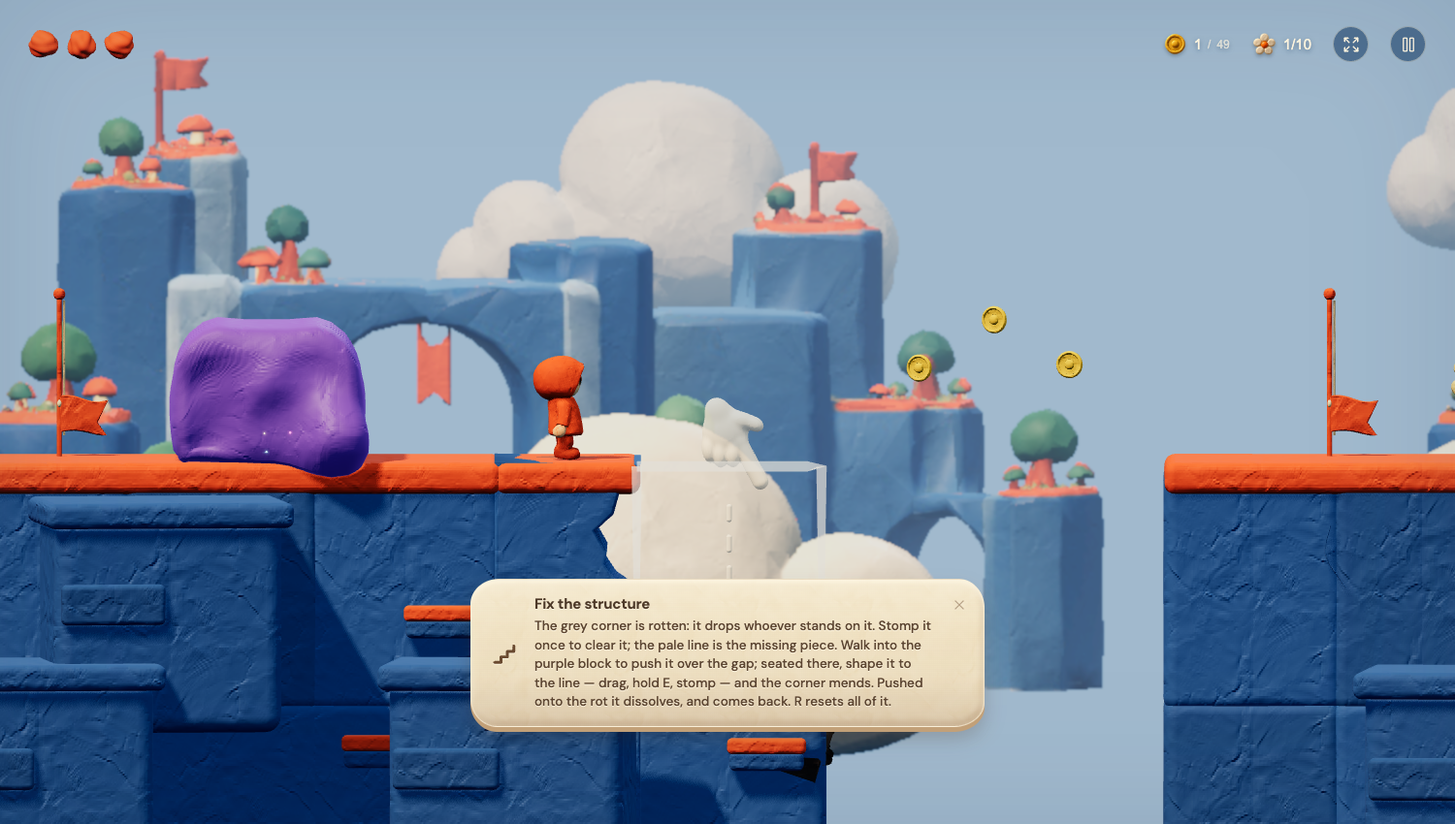
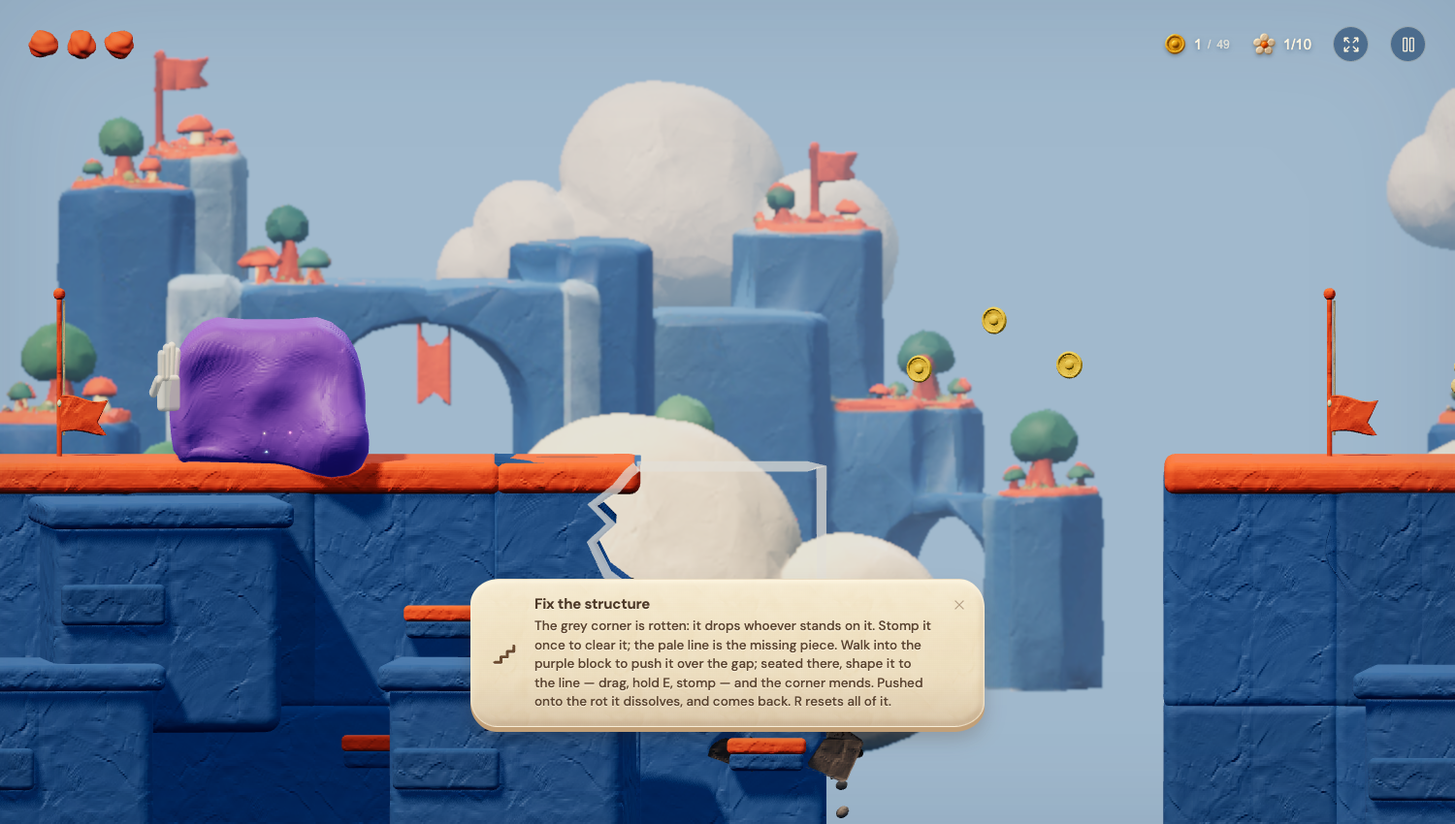
Make the rot one pitted slab, outline the whole bite, and show a hand that pushes
The rotten corner reads as the reference does: one slab of dead clay,
pitted like pumice with craters large and small (porousClay takes a count,
a size and a share of craters for its top face, and a polygon-aware margin
so a toothed outline keeps its pores everywhere), grains of it clinging
along its top and open side, a lighter warm grey against the blue, and a
bite with straight teeth rather than a wavy edge. It is whole until it
goes; the fragments it falls as are built beside it and shown only for the
fall.

The white outline traces the whole bite — down the open side, along the
floor and up the bitten wall, teeth and all — so the line is the piece that
is missing, not a box over the hole.

The teaching hand follows the plug's phases. Nothing while the rot stands;
once the gap is open, an open hand — palm, four fingers and a thumb, turned
to the camera — flat against the block's near face, shoving at it and going
with it as it moves, and gone while the player is shoving it themselves;
the pointing hand with its run and arrow only once the plug is seated and
is clay to work; nothing while it settles or once the corner is mended. A
cue that loses its anchor fades where it was.

diff --git a/dist/crumble.js b/dist/crumble.js
@@ -99,51 +99,58 @@ export function createCrumble(w,s,root){
 
 // --- a rotten corner --------------------------------------------------------------
 // A bench corner rotted through: the bite `rot-shape.js` describes, filled with
-// rot — dark clay gone to pieces already, fractured across its face so the
-// seams are its cracks, pitted, flecked, and standing on a darker backing so
-// the cracks read black rather than sky. It falls the way a crumbling ledge
-// does: every fragment is a piece for animateCrumble, holder and all.
-const ROT_CLAY=0x4b423e,ROT_DARK=0x2d2826,ROT_DEPTH=3;
+// rot — one slab of dead clay, pitted like pumice with craters large and small,
+// grains of it clinging along its top and its open side, warm grey-brown where
+// the bench is blue. It is whole until it goes; then it falls as fragments,
+// which are built with it and shown only for the fall. Every piece is a piece
+// for animateCrumble, holder and all.
+const ROT_CLAY=0x776a61,ROT_DEPTH=3;
 export function rotMaterials(w){
-  for(const [name,color,vertexColors]of [['rotClay',ROT_CLAY,true],['rotDark',0x3a322f,true],['rotBack',ROT_DARK,false],['rotChip',0x3b3330,false]]){
+  for(const [name,color,vertexColors]of [['rotClay',ROT_CLAY,true],['rotShard',0x655953,true],['rotGrain',0x7d7067,false],['rotChip',0x6b5f57,false]]){
     const material=w.mat[name]??=new THREE.MeshStandardMaterial();
     material.color.setHex(color);material.roughness=.97;material.metalness=0;material.vertexColors=vertexColors;
   }
 }
+// porousClay builds a slab lying flat with its pitted face up; laid on its
+// side, (x, z) becomes (x, y) and the pits face the front. The holder keeps
+// that turn, since animateCrumble writes the piece's own rotation each frame.
+function rotSlab(w,geo,mat,root,cx,cy){
+  const holder=new THREE.Group();holder.position.set(cx,cy,0);root.add(holder);
+  const mesh=w.mesh(geo,mat,holder,0,0,ROT_DEPTH/2);mesh.rotation.x=Math.PI/2;
+  return {holder,mesh};
+}
 export function createRot(w,s,root){
   root.name='Rotten corner';rotMaterials(w);
   const seed=biteSeed(s),outline=biteOutline(s.w,s.h,seed),{left,right,top,bottom}=biteBounds(outline),pieces=[];
-  // Voronoi cells over the bite's box, in the plane of the bench's face, kept
-  // where their middle lies inside the bite. A cell that straddles the ragged
-  // wall runs on into the bench, where the bench hides it.
+  // The slab: the whole bite, pitted deep.
+  const cx=(left+right)/2,cy=(top+bottom)/2;
+  const whole=clayShape(w,`rot-slab:${seed}:${s.w}:${s.h}`,()=>porousClay(w,outline.map(([x,y])=>[x-cx,-(y-cy)]),ROT_DEPTH,seed,false,{count:54,scale:2.7,bold:.5,concave:true}));
+  const slab=rotSlab(w,whole,'rotClay',root,cx,cy);slab.mesh.name='Rotten clay';
+  pieces.push({mesh:slab.holder,rest:slab.holder.position.clone(),seed:0,layer:0,whole:true});
+  // Grains of rot cling along the top and the open side, and fall with it.
+  for(let i=0;i<18;i++){
+    const onTop=i<11,r=.07+random(seed+i*13)*.09;
+    const x=onTop?left+.25+random(seed+i*7)*(right-left-.45):right-r*.3,y=onTop?top-r*.25:bottom+.3+random(seed+i*11)*(top-bottom-.6);
+    const z=(random(seed+i*17)-.5)*(ROT_DEPTH-.6);
+    const grain=w.mesh(fragmentGeometry(w),'rotGrain',root,x,y,z);grain.scale.set(r*1.2,r*.9,r*1.05);grain.castShadow=false;
+    pieces.push({mesh:grain,rest:grain.position.clone(),seed:60+i,grain:true});
+  }
+  // The fragments it falls as: Voronoi cells over the bite's box, in the plane
+  // of the bench's face, kept where their middle lies inside the bite.
   const cols=Math.max(3,Math.round((right-left)/1.05)),rows=Math.max(2,Math.round((top-bottom)/.9)),sites=[];
   for(let r=0;r<rows;r++){const n=cols-(r%2);for(let c=0;c<n;c++)sites.push([left+(c+.5+(random(seed+c*3+r*11)-.5)*.6)*(right-left)/n,bottom+(r+.5+(random(seed+c*5+r*17)-.5)*.5)*(top-bottom)/rows]);}
   for(const [i,a]of sites.entries()){
     let poly=[[left,bottom],[right,bottom],[right,top],[left,top]];
     for(const b of sites)if(b!==a)poly=clip(poly,b[0]-a[0],b[1]-a[1],(b[0]**2+b[1]**2-a[0]**2-a[1]**2)/2);
     if(poly.length<3)continue;
-    const cx=poly.reduce((q,p)=>q+p[0],0)/poly.length,cy=poly.reduce((q,p)=>q+p[1],0)/poly.length;
-    if(!insideBite(outline,cx,cy))continue;
-    // Drawn in about its middle: the seams between fragments are the cracks.
-    // porousClay builds a slab lying flat with its pitted face up; laid on its
-    // side (x, z) becomes (x, y), and the pits face the front.
-    const local=poly.map(([x,y])=>{const len=Math.hypot(x-cx,y-cy)||1,f=1-Math.min(.075,len*.15)/len;return [(x-cx)*f,-(y-cy)*f];});
-    const geo=clayShape(w,`rot:${seed}:${i}`,()=>porousClay(w,local,ROT_DEPTH,seed+i*137,random(seed+i)>.55));
-    const holder=new THREE.Group();holder.position.set(cx,cy,0);root.add(holder);
-    const mesh=w.mesh(geo,random(seed+i*7)>.4?'rotClay':'rotDark',holder,0,0,ROT_DEPTH/2);mesh.rotation.x=Math.PI/2;
-    mesh.name='Rotten clay';
-    // A fleck or two of black on the face.
-    for(let k=0;k<2;k++)if(random(seed+i*13+k)>.45){
-      const fx=(random(seed+i*17+k)-.5)*.5,fy=(random(seed+i*19+k)-.5)*.5,r=.05+random(seed+i*23+k)*.06;
-      const fleck=w.ball(r,r*.85,r*.4,'rotBack',holder,fx,fy,ROT_DEPTH/2+.01);fleck.castShadow=false;
-    }
-    pieces.push({mesh:holder,rest:holder.position.clone(),seed:i,layer:0});
+    const px=poly.reduce((q,p)=>q+p[0],0)/poly.length,py=poly.reduce((q,p)=>q+p[1],0)/poly.length;
+    if(!insideBite(outline,px,py))continue;
+    const local=poly.map(([x,y])=>{const len=Math.hypot(x-px,y-py)||1,f=1-Math.min(.06,len*.12)/len;return [(x-px)*f,-(y-py)*f];});
+    const geo=clayShape(w,`rot-shard:${seed}:${i}`,()=>porousClay(w,local,ROT_DEPTH-.2,seed+i*137,random(seed+i)>.5));
+    const shard=rotSlab(w,geo,random(seed+i*7)>.5?'rotClay':'rotShard',root,px,py);shard.mesh.name='Rotten clay, fallen';
+    shard.holder.visible=false;
+    pieces.push({mesh:shard.holder,rest:shard.holder.position.clone(),seed:i+1,layer:0,shard:true});
   }
-  // The backing: the whole bite, a hand behind the fragments.
-  const shape=new THREE.Shape(outline.map(([x,y])=>new THREE.Vector2(x,y)));
-  const back=w.mesh(new THREE.ExtrudeGeometry(shape,{depth:.3,bevelEnabled:false}),'rotBack',root,0,0,-ROT_DEPTH/2-.3);
-  back.name='Rot backing';back.castShadow=false;
-  pieces.push({mesh:back,rest:back.position.clone(),seed:97,layer:1});
   return {pieces,crumbClock:0};
 }
 // The bench column the bite is eaten from, drawn as one piece with the bite's
@@ -196,6 +203,8 @@ export function animateCrumble(w,view,s,dt){
   fracture.settled=settled;
   for(const part of fracture.pieces){
     const {mesh,rest,seed}=part;mesh.position.copy(rest);mesh.rotation.set(0,0,0);
+    // A rotten slab is whole until it goes, and its shards only ever fall.
+    if(part.whole)mesh.visible=!!s.active;else if(part.shard)mesh.visible=!s.active;
     if(!s.active){
       const fall=Math.max(0,age-random(seed)*.11),dx=rest.x-s.w/2;
       mesh.position.x+=dx*fall*.42;mesh.position.y-=fall*fall*(part.grain?13:8.5);

diff --git a/dist/shape-hand.js b/dist/shape-hand.js
@@ -1,4 +1,5 @@
 import * as THREE from './lib/three.module.js';
+import {RoundedBoxGeometry} from './lib/RoundedBoxGeometry.js';
 import {createHandGeometry,createArrowGeometry} from './shape-hand-geometry.js';
 import {shapedShare} from './clay-rules.js';
 import {formPeak} from './clay-form.js';
@@ -32,6 +33,34 @@ function buildHand(geometry,material,parent,flip=1){
   const mesh=new THREE.Mesh(geometry,material);mesh.name='Sculpted pointing hand';hand.add(mesh);
   return hand;
 }
+// An open hand, palm flat against the thing it pushes: a slab of a palm on its
+// edge, four fingers up off it and a thumb off the near side, turned a little
+// towards the camera so the back of the hand and the spread of the fingers
+// read rather than a hand seen edge-on. Its palm face is at x 0; it pushes
+// towards +x.
+function buildPalm(material,parent){
+  const hand=new THREE.Group();hand.name='Open clay hand, pushing';hand.scale.setScalar(1.55);parent.add(hand);
+  const turn=new THREE.Group();turn.rotation.y=-.8;hand.add(turn);
+  const palm=new THREE.Mesh(new RoundedBoxGeometry(.2,.6,.52,3,.08),material);palm.name='Palm';palm.position.set(-.1,0,0);turn.add(palm);
+  for(const [i,len]of [.4,.5,.47,.37].entries()){
+    const finger=new THREE.Mesh(new THREE.CapsuleGeometry(.08,len,4,10),material);finger.name='Finger';
+    finger.position.set(-.1,.3+len/2-.02,-.2+i*.13);finger.rotation.x=(i-1.5)*.05;finger.rotation.z=-.06;turn.add(finger);
+  }
+  const thumb=new THREE.Mesh(new THREE.CapsuleGeometry(.085,.32,4,10),material);thumb.name='Thumb';
+  thumb.position.set(-.14,.12,.31);thumb.rotation.z=-.75;thumb.rotation.x=.35;turn.add(thumb);
+  return hand;
+}
+// The plug's cue follows its phases: nothing while the rot stands (the sign
+// says stomp), a hand pushing the block once the gap is open, the press once
+// the plug is seated, and nothing while it settles or once it is mended.
+const fixMode=station=>{const phase=station.fix?.phase;return phase==='open'?'push':phase==='shaping'?'press':null;};
+// Where the pushing hand stands: flat on the block's near face, a little below
+// the block's middle, following the block as it goes.
+function pushAnchor(station){
+  const block=station.fix?.blockPlatform;
+  if(!block||block.active===false||block.pushPhase!=='free')return null;
+  return {x:block.x-.04,y:block.y-block.h*.45};
+}
 
 export function createShapeHands(w,L){
   const views=[];
@@ -57,7 +86,9 @@ export function createShapeHands(w,L){
       const head=new THREE.Mesh(geometries[2],materials[0]);carrier.add(head);
       head.userData={dir,step:3.32,arrow:true};marks.push(head);
     }
-    views.push({root,carrier,hands,marks,materials,geometries,station,gesture,opacity:0,time:0,dwell:0,seen:0});
+    const view={root,carrier,hands,marks,materials,geometries,station,gesture,opacity:0,time:0,dwell:0,seen:0};
+    if(station.fix){view.palm=buildPalm(materials[0],carrier);view.palm.visible=false;}
+    views.push(view);
   }
   return views;
 }
@@ -99,7 +130,8 @@ export function animateShapeHands(w,game,dt,playing){
   const done=w.clayDone;
   for(const view of w.shapeHands||[]){
     const {station,gesture,root}=view;
-    const spot=anchor(view,L,p);
+    const mode=station.fix?fixMode(station):'press';
+    const spot=mode==='push'?pushAnchor(station):mode?anchor(view,L,p):null;
     const inStretch=!!spot&&p.x>=station.x&&p.x<=station.end&&Math.abs(p.y-station.spawn.y)<10;
     const unworked=station.amount<.995;
     // Dwell resets whenever the clay moves, so the cue never nags a player who
@@ -110,13 +142,22 @@ export function animateShapeHands(w,game,dt,playing){
     else view.dwell+=playing?dt:0;
     view.lastAmount=worked;
     const teaching=!done?.has(station.id)||view.dwell>DWELL;
-    const wanted=inStretch&&unworked&&teaching&&!w.editorCamera&&game.status!=='complete';
+    // A player already shoving the block needs no hand to show them.
+    const wanted=inStretch&&unworked&&teaching&&!w.editorCamera&&game.status!=='complete'&&!(mode==='push'&&p.pushing);
     view.opacity+=((wanted?1:0)-view.opacity)*(1-Math.exp(-dt*7));
     // The cue recedes as the clay takes shape: the player sees their own work.
     const alpha=view.opacity*(.25+.75*(1-worked));
     root.visible=alpha>.02;
     if(!root.visible)continue;
-    root.position.set(spot.x,spot.y,1.8);
+    // A cue that has just lost its anchor fades where it was.
+    if(spot)root.position.set(spot.x,spot.y,1.8);
+    if(view.palm){
+      // One cue or the other: the open hand at the block, or the pointing
+      // hand with its run and arrow over the clay.
+      view.palm.visible=mode==='push';
+      for(const hand of view.hands)hand.visible=mode!=='push';
+      for(const mark of view.marks)mark.visible=mode!=='push';
+    }
 
     view.time+=playing?dt:0;
     // Reduced motion holds a legible mid-gesture pose instead of looping.
@@ -130,6 +171,14 @@ export function animateShapeHands(w,game,dt,playing){
     const bob=w.reducedMotion?0:Math.sin(view.time*2.3)*.07*(1-swing);
     view.carrier.position.set(0,bob,0);
     view.carrier.scale.setScalar(w.landscape===false?.9:1);
+    if(mode==='push'){
+      // The hand comes at the block and leans on it: a short shove, a little
+      // squash as the palm meets the face, and back for the next.
+      view.palm.position.set(-.55+.55*swing,0,0);
+      view.palm.scale.set(1-swing*.12,1+swing*.04,1);
+      for(const m of view.materials)m.opacity=alpha*(.5+.5*fade);
+      continue;
+    }
     for(const hand of view.hands){
       const dir=hand.userData.dir;
       hand.position.set((gesture.move[0]*swing+(gesture.mirror?.48:0))*dir,gesture.move[1]*swing,0);

diff --git a/dist/porous-clay.js b/dist/porous-clay.js
@@ -2,10 +2,28 @@ import * as THREE from './lib/three.module.js';
 import {sculptClay} from './clay.js';
 
 const random=n=>{const x=Math.sin(n*127.13+73.41)*43758.5453;return x-Math.floor(x);};
+const insidePolygon=(outline,x,y)=>{
+  let inside=false;
+  for(let i=0,j=outline.length-1;i<outline.length;j=i++){
+    const [xi,yi]=outline[i],[xj,yj]=outline[j];
+    if((yi>y)!==(yj>y)&&x<(xj-xi)*(y-yi)/(yj-yi)+xi)inside=!inside;
+  }
+  return inside;
+};
+const segmentDistance=(a,b,x,y)=>{
+  const dx=b[0]-a[0],dy=b[1]-a[1],len2=dx*dx+dy*dy||1e-9,t=Math.max(0,Math.min(1,((x-a[0])*dx+(y-a[1])*dy)/len2));
+  return Math.hypot(x-(a[0]+dx*t),y-(a[1]+dy*t));
+};
 
 // Actual recessed cavities, including their walls and shaded interiors. Each
 // fragment remains one mesh so pores add no draw calls during collapse.
-export function porousClay(w,polygon,depth,seed,lower=false){
+// `pores` may ask the top face for more of them (`count`) and bigger ones
+// (`scale`): a whole slab of rotten clay is pitted like pumice, a ledge only
+// flecked.
+// `bold` is the share of them that are craters rather than pinpricks. `concave`
+// lets a toothed outline keep pores everywhere inside it: the margin is then
+// read from the edge itself, not its whole line.
+export function porousClay(w,polygon,depth,seed,lower=false,{count=null,scale=1,bold=.36,concave=false}={}){
   const positions=[],colors=[],uvs=[];
   let poreCount=0;
   const vertex=(p,shade)=>{positions.push(...p);colors.push(shade,shade,shade);uvs.push(p[0],p[2]);};
@@ -19,17 +37,18 @@ export function porousClay(w,polygon,depth,seed,lower=false){
     const xs=outline.map(p=>p[0]),ys=outline.map(p=>p[1]);
     const xmin=Math.min(...xs),xmax=Math.max(...xs),ymin=Math.min(...ys),ymax=Math.max(...ys);
     const area=Math.abs(THREE.ShapeUtils.area(contour));
-    const target=porous?Math.min(top?20:16,Math.ceil(area*(top?15:38))):0;
+    const target=porous?(top&&count?count:Math.min(top?20:16,Math.ceil(area*(top?15:38)))):0;
     for(let attempt=0;attempt<target*35&&pores.length<target;attempt++){
       const k=faceSeed+attempt*17;
       const x=xmin+random(k)*(xmax-xmin),y=ymin+random(k+1)*(ymax-ymin);
-      const large=pores.length===0||random(k+2)>.64;
-      const r=(large?(lower?.085:.063):.021)+random(k+3)*(large?.048:.021);
+      const large=pores.length===0||random(k+2)>1-(top?bold:.36);
+      const r=((large?(lower?.085:.063):.021)+random(k+3)*(large?.048:.021))*(top?scale:1);
       // Keep every mouth inside its face and separated from its neighbours.
-      let inside=true;
-      for(let j=0;j<outline.length;j++){
+      let inside=concave?insidePolygon(outline,x,y):true;
+      for(let j=0;j<outline.length&&inside;j++){
         const a=outline[j],b=outline[(j+1)%outline.length],dx=b[0]-a[0],dy=b[1]-a[1],len=Math.hypot(dx,dy);
-        if((dx*(y-a[1])-dy*(x-a[0]))/len<r*1.12+.008){inside=false;break;}
+        const gap=concave?segmentDistance(a,b,x,y):(dx*(y-a[1])-dy*(x-a[0]))/len;
+        if(gap<r*1.12+.008){inside=false;break;}
       }
       if(!inside||pores.some(p=>Math.hypot(x-p.x,y-p.y)<r+p.r+.018))continue;
       const ring=Array.from({length:12},(_,j)=>{

diff --git a/dist/rot-shape.js b/dist/rot-shape.js
@@ -11,8 +11,9 @@
 // surface, so the corner reads as rotted through rather than sawn out.
 const random=n=>{const x=Math.sin(n*127.13+73.41)*43758.5453;return x-Math.floor(x);};
 
-// How far the bulge eats into the bench, as a share of the gap's width.
-export const BITE=Object.freeze({reach:.22,jag:.05});
+// How far the bite eats into the bench, as a share of the gap's width, and
+// how much each tooth of its edge may wander from where it is drawn.
+export const BITE=Object.freeze({reach:.26,jag:.035});
 
 // The seed a bite is drawn from: the gap's own place on the bench.
 export const biteSeed=s=>Math.round((s.x??0)*7+(s.w??0)*13);
@@ -25,10 +26,12 @@ export function biteOutline(w,h,seed=0){
   const pts=[[0,0],[w,0],[w,-h]];
   // The floor: level where the plug will sit, with a nick or two in it.
   pts.push([w*.62,-h+jag(1,.012)],[w*.3,-h+jag(2,.012)],[0,-h]);
-  // The left wall eats into the bench: out and back over the height of the
-  // gap, never at the very top, so the walking surface is the bench's own.
-  const wall=[[-.15,-h+.12],[-.6,-h+.34],[-1,-h+.56],[-.75,-.66*h],[-1,-.5*h],[-.55,-.34*h],[-.35,-.14*h],[-.08,-.05*h]];
-  for(const [i,[u,v]] of wall.entries())pts.push([u*reach+jag(10+i)*.6,v+jag(20+i)*.4]);
+  // The left wall is bitten, not worn: a few straight teeth into the bench,
+  // deepest a little below the middle, and never at the very top, so the
+  // walking surface is the bench's own. Straight runs between the points —
+  // the shapes drawn from this extrude them as they are.
+  const wall=[[-.1,-.94*h],[-.62,-.8*h],[-1,-.58*h],[-.5,-.44*h],[-.86,-.3*h],[-.38,-.16*h],[-.12,-.05*h]];
+  for(const [i,[u,v]] of wall.entries())pts.push([u*reach+jag(10+i)*.5,v+jag(20+i)*.3]);
   return pts;
 }
 

diff --git a/dist/shaping-views.js b/dist/shaping-views.js
@@ -276,10 +276,18 @@ const MOULD_INK=0xf6ecd6,MOULD_CAST=0x9be7a8,MOULD_BAND=.09;
 function createMouldView(s,root,D,base){
   const target=s.mould,n=target.length,dx=s.w/(n-1),z=D/2+.06;
   // The line to lie along: the target's top. A mould that is a gap to fill
-  // (`outline`) is drawn whole — down the open side, along the floor and up
-  // the wall — so it reads as the piece that is missing.
+  // (`outline`) is drawn whole — the bite the rot ate, down the open side,
+  // along the floor and up the bitten wall, teeth and all — so it reads as
+  // the piece that is missing, not as a box over the hole.
   const line=[];for(let i=0;i<n;i++)line.push([i*dx,base+target[i]]);
-  if(s.outline)line.push([s.w,base],[0,base],[0,base+target[0]]);
+  if(s.outline){
+    const bite=biteOutline(s.w,s.h,biteSeed(s));
+    // The bite runs along the top, down the open side, back along the floor
+    // and up the wall; its top is the cast, already drawn, so what follows
+    // the cast's last point is everything after the bite's second corner.
+    for(const [x,y] of bite.slice(2))line.push([x,base+s.h+y]);
+    line.push([0,base+target[0]]);
+  }
   const positions=new Float32Array(line.length*2*3),indices=[];
   for(let i=0;i<line.length;i++){
     const [x,y]=line[i],j=i*6;

diff --git a/README.md b/README.md
@@ -24,7 +24,7 @@
 
 The world answers as clay too. A landing dents the slab under it: a damped spring with one overshoot, about one and a half per cent under an ordinary landing and three capped under a stomp, scaled down on a long slab because a long plank flexes less. A stomped creature is pressed into a disc like clay under a thumb, and two or three pellets of its own clay squirt out from under the press; the disc is held flat where the player is already looking, gathers itself, and breaks into three to seven chunky clumps of the creature's own colour that tumble out, drop onto the deck below and lie there before sinking away (`dist/clay-shatter.js`). Every stompable creature — clayling, bat, spore puff, echo spitter, dust drifter — dies this way in its own colour; a bat over a pit sheds clumps that simply fall away, a lift carries the clumps lying on it, and the player landing back on the deck presses whatever lies under their feet. It used to squash to nothing in two tenths of a second, which reads as deleted. Neither moves a collider; the dent is skipped under reduced motion, which also keeps a death to two pellets and three clumps dropped gently.
 
-One bench is offered rather than shipped. **The Clay Lab** (chapter picker, under the four) is eleven experiments in what clay does besides hold a shape: a deep block of soft clay that SAGS under your weight and keeps part of the sag, a lump you PACK until it throws you, a row of slabs you SIZE one at a time into a stair, and a whole trough of clay you FORM freely. The fourth, **Fully Formable** (x108–141), has no pose at all: its top is a row of columns over the trough floor (`dist/clay-form.js`, tested on its own and through the real simulation in `tests/clay-form.mjs`), and the pointer is the tool — take hold of any point of the surface and drag, and the clay within a reach follows the hand with a soft falloff, up into a pillar or a step, down into a bowl, sideways into a lean or a bridge; press in from the air above and it dents where the hand enters; tap it and it pokes; hold E and the clay ahead of you is worked into a step you can walk up (pressed down where it towers, lifted where it lies low); stomp it and it craters and throws you straight back up, the way the packed lump does at full but on the first stomp, every time (about six and two-thirds units). Three promises hold every tick: it stays one blob (no column thinner than a third of a unit), it keeps its volume (a pillar digs its own moat and a bowl grows its own rim, nearest first), and it stays usable (no column past 8.5, no face steeper than 4.5 in 1, no corner turned tighter than a 0.6 radius — every edge a stroke would leave sharp is rounded off as it is made — and small strokes smoothed). Weight is a tool here too, lightly and bounded — a stand sinks the boots about a third of a unit and pushes up shoulders, landings and stomps a little more, never past a cap — which is the Sag & Set behaviour inside the one simulation. Collision reads the same columns the mesh does, with two rules a heightfield alone lacks: a face steeper than a walkable slope is a wall — a walker stops at its foot, a jumper who hits it slides down it, and a walker who steps onto one falls — and clay rising into airborne feet lifts them rather than shoving them aside. Left alone (no hand, nobody standing on it) for a few seconds the whole surface slumps slowly back to its authored clump, so a player's ramp or pillar is a temporary solution and the bench is always recoverable; R puts the clump back at once. The slab starts flat and square, a step below the benches, so nothing is shaped for you; the flower perch above is out of a stomp's reach from the slab, so it wants a low pillar pulled up under it and a stomp from its top. Beside it, **A Lump on the Bench** (x141–167) is the same clay sitting free on the bench instead of let into it: a square blob with rounded shoulders whose faces are too steep to climb and whose top is too high to jump to, thinning to nothing at the ends of its footprint (but never past a third of a unit between them, so it is always one lump), with a flower perch so high above it that even a stomp from its top falls short until the lump is drawn up. Lean it into a ramp, spread it flat, pull a step up at its foot or draw it up into a pillar — the bench under it runs on bare on either side. After the lump come **five puzzles and platform stretches built on the formable mass**, each asking one thing of it, so the best of them can be carried into a chapter (`tests/clay-lab-puzzles.mjs` drives every one from its dock through the real simulation, pointer and keys, and holds the same promises every tick as the slab and the lump). **Buried in the Slab** (x166–198): five beads and a flower are inside a deep slab, deepest in the middle; digging is pressing in from the air and dragging down, and because the clay keeps its volume the spoil piles up beside the hole — gathered under the perch it is the mound that reaches it, which nothing on the flat slab does. **Under & Over** (x198–234): the mass lies flush with the dock, a stone lintel crosses it with too little air beneath to walk under (the flower is under it), and past the lintel the bench stands exactly as high as the clay can be raised; a trench under the lintel is the way through and its spoil, leaned into a ramp and raised with E, the way up. **Cast the Mould** (x234–268): a pale outline over the slab is a mould (`mould` knots on the station, legalised like a clump, with the slab derived as the flat that holds exactly the mould's volume); the clay's match to it (`formMatch`, a mean gap read between a cast and a slab) is the station's shaped share and the ribbon's brightness, and a cast latches, announces, and opens the station's `channel` the way a switch would — here a `gate` on a roofed, walled vault with a flower inside, which R shuts again. **Wet Clay** (x268–309): the same mass with a `pace` of its own (`PACE` overrides on the form: it settles in well under a second, slumps in seconds, and — the one real difference — is not held by the weight of a rider, only by a hand), so the step against the far bench melts if you dawdle and the perch is a pillar pulled up under your own feet and a stomp from its top before it sinks. **The Marble Run** (x309–350): a marble (`dist/clay-marble.js`, pure numbers on the same heightfield: it rolls down whatever slope is under it, is carried up when the ground under it is raised, brakes to a stop in a hollow, and bounces off the benches) rests in a hollow at the near end with its socket at the far end past a ridge too tall to roll over; nothing touches the marble but the ground, so it is herded by raising the clay behind it, leaning a mound over, or stomping just ahead of it so it rolls into the crater, and seated in the socket it latches the station's channel and a channel-gated `lift` on the bench runs up to the flower and back for as long as it sits there. **Fix the Structure** (x350–380) is the one bench that is not a mass to be worked from the start: the dock's far corner has gone to rot — a `crumble` deck marked `rot`, drawn not as a ledge but as a bite eaten out of the bench (`dist/rot-shape.js`: the gap the puzzle plays in plus a ragged bulge into the dock's last column, itself a stone deck carved around the bite) and filled with dark fractured rot, pitted and flecked, its seams the cracks — and it gives the moment anyone stands on it (`delay:.12`, and a stand on it earns no coyote time, so it is never a take-off for the pit beyond, which a running jump from the mended corner alone crosses); a stomp brings it down at once and bounces the stomper, and down it stays, saved in `broken`, until R. What it leaves is drawn as a closed white outline — the mould ribbon carried down the open side, along the floor and up the wall. The purple block on the dock is the game's first pushed object (`dist/clay-push.js`, pure numbers on a `stone` platform marked `push`): a grounded walk into its face carries it ahead at a walk's third (`PUSH.speed`), the passes after set the walker flush behind it, a wall stops it, and it wears a squared-off lump of its own (`fix.blockClump`) — its own never-worked heightfield, low enough to hop onto so it can be got behind from either side. The walker leans into it: `player.pushing` is the lean's direction each tick and `player.pushed` how fast the block went, and every character plays the supplied **Push Forward and Stop** take (`dist/assets/player-idle.json`, added beside the idle by `scripts/prepare-push.mjs` — the same rig under Mixamo's joint names, so its tracks are renamed onto the character's bones and its rest pose checked bone for bone; the four retargeted rigs carry it through `prepare-character.mjs`): the shove loops for as long as a block is pushed or leant on, hurried while the block actually moves, and the take's own standing-down plays once when the block is let go standing still. A rig with no push clip walks against a block the way it walks anywhere. Pushed seven tenths over the open gap the block tips in and seats over three tenths of a second, and the station's mass, dormant till then (`active:false`, no body, no hand — `fixWorkable` in `dist/clay-rules.js` gates the hold, E, the tap and the stomp), stands up in its place as that very lump and settles, over seven tenths of a second and taking no hand meanwhile, into `clump` — the bulge a lump squeezed into a hole makes — both shapes fitted by `mouldFit` to hold exactly the gap's volume so the flat mould (`[[0,0],[1,0]]`) is the one shape it can fill with nothing over. From there it is Cast the Mould: the same `formMatch`, and at the cast the surface snaps to the mould, the station is sealed (`sealFix`), its `channel` latches, and `station.open` — computed for every cast and read by nothing until now — drives a white flash and then a patch of the bench's own clay — the whole bite, bulge and all, body and cap — in the lattice's place. Pushed onto the rot while it stands, the block reacts instead: a hiss (`noise()` in `dist/audio.js`, the one synthesized sound with no pitch), violet to the rot's black, then to pieces in its own dark chips, and back on the dock eight tenths of a second later once nobody stands there. `station.amount` counts the phases — nothing, a fifth with the gap open, then the cast's progress from the seated lump — and R stands the rot back up, puts the block back and dismisses the mass. `tests/clay-lab-puzzles.mjs` drives all of it from the dock: the stand, the stomp, the push, the reaction, the seat, the cast, the jump, the save, and R. Every piece of violet clay in the game, chapter or lab, is heard being worked: whatever moves it — a drag, E, a tap, boots sinking in, a stomp — raises a `knead` event from the simulation no oftener than every half second while the work goes on (`KNEAD_GAP` in `dist/shaping.js`), and the sound answers each with one of three supplied kneading takes (`dist/assets/clay-knead-1..3.wav`, folded to mono) chosen at random and never the same one twice running; clay settling, slumping or relaxing on its own is silent. `tests/clay-knead.mjs` drives every kind of clay and every way in, and `tests/audio.mjs` the takes. The block is a row of springs across its top (`dist/clay-give.js`, tested on its own in `tests/clay-give.mjs`) that the collider and the mesh both read. It behaves like heavy clay rather than jelly: standing sinks you about a player-height and a third below the shoulders it pushes up and settles without ringing, and whatever you press in — a stand, the trough a walk drags behind you, a stomp crater — it gives back only about a quarter of and keeps the rest, with no wake, no swing and no throw. The flower perch above it belongs to a running jump off the start bench. The lump and the slabs take hands as well as boots: stomp them, drag them (the lump down, a slab up or down), tap them, or hold E, which packs the lump or grows the slab you stand on or face; a lump that has just thrown you ignores the hand that armed it until that hand lets go. Every one carries a `rule`. One of them has left the bench: the formable mass is the canyon's Sandwright's Pocket, with its slump switched off and a stiffer shaped share, and `tests/clay-lab.mjs` asserts that no other rule reaches a chapter; which rules take a hand is listed in `dist/clay-rules.js`, and `tests/clay-lab-hands.mjs` drives the real pointer and key handlers against them.
+One bench is offered rather than shipped. **The Clay Lab** (chapter picker, under the four) is eleven experiments in what clay does besides hold a shape: a deep block of soft clay that SAGS under your weight and keeps part of the sag, a lump you PACK until it throws you, a row of slabs you SIZE one at a time into a stair, and a whole trough of clay you FORM freely. The fourth, **Fully Formable** (x108–141), has no pose at all: its top is a row of columns over the trough floor (`dist/clay-form.js`, tested on its own and through the real simulation in `tests/clay-form.mjs`), and the pointer is the tool — take hold of any point of the surface and drag, and the clay within a reach follows the hand with a soft falloff, up into a pillar or a step, down into a bowl, sideways into a lean or a bridge; press in from the air above and it dents where the hand enters; tap it and it pokes; hold E and the clay ahead of you is worked into a step you can walk up (pressed down where it towers, lifted where it lies low); stomp it and it craters and throws you straight back up, the way the packed lump does at full but on the first stomp, every time (about six and two-thirds units). Three promises hold every tick: it stays one blob (no column thinner than a third of a unit), it keeps its volume (a pillar digs its own moat and a bowl grows its own rim, nearest first), and it stays usable (no column past 8.5, no face steeper than 4.5 in 1, no corner turned tighter than a 0.6 radius — every edge a stroke would leave sharp is rounded off as it is made — and small strokes smoothed). Weight is a tool here too, lightly and bounded — a stand sinks the boots about a third of a unit and pushes up shoulders, landings and stomps a little more, never past a cap — which is the Sag & Set behaviour inside the one simulation. Collision reads the same columns the mesh does, with two rules a heightfield alone lacks: a face steeper than a walkable slope is a wall — a walker stops at its foot, a jumper who hits it slides down it, and a walker who steps onto one falls — and clay rising into airborne feet lifts them rather than shoving them aside. Left alone (no hand, nobody standing on it) for a few seconds the whole surface slumps slowly back to its authored clump, so a player's ramp or pillar is a temporary solution and the bench is always recoverable; R puts the clump back at once. The slab starts flat and square, a step below the benches, so nothing is shaped for you; the flower perch above is out of a stomp's reach from the slab, so it wants a low pillar pulled up under it and a stomp from its top. Beside it, **A Lump on the Bench** (x141–167) is the same clay sitting free on the bench instead of let into it: a square blob with rounded shoulders whose faces are too steep to climb and whose top is too high to jump to, thinning to nothing at the ends of its footprint (but never past a third of a unit between them, so it is always one lump), with a flower perch so high above it that even a stomp from its top falls short until the lump is drawn up. Lean it into a ramp, spread it flat, pull a step up at its foot or draw it up into a pillar — the bench under it runs on bare on either side. After the lump come **five puzzles and platform stretches built on the formable mass**, each asking one thing of it, so the best of them can be carried into a chapter (`tests/clay-lab-puzzles.mjs` drives every one from its dock through the real simulation, pointer and keys, and holds the same promises every tick as the slab and the lump). **Buried in the Slab** (x166–198): five beads and a flower are inside a deep slab, deepest in the middle; digging is pressing in from the air and dragging down, and because the clay keeps its volume the spoil piles up beside the hole — gathered under the perch it is the mound that reaches it, which nothing on the flat slab does. **Under & Over** (x198–234): the mass lies flush with the dock, a stone lintel crosses it with too little air beneath to walk under (the flower is under it), and past the lintel the bench stands exactly as high as the clay can be raised; a trench under the lintel is the way through and its spoil, leaned into a ramp and raised with E, the way up. **Cast the Mould** (x234–268): a pale outline over the slab is a mould (`mould` knots on the station, legalised like a clump, with the slab derived as the flat that holds exactly the mould's volume); the clay's match to it (`formMatch`, a mean gap read between a cast and a slab) is the station's shaped share and the ribbon's brightness, and a cast latches, announces, and opens the station's `channel` the way a switch would — here a `gate` on a roofed, walled vault with a flower inside, which R shuts again. **Wet Clay** (x268–309): the same mass with a `pace` of its own (`PACE` overrides on the form: it settles in well under a second, slumps in seconds, and — the one real difference — is not held by the weight of a rider, only by a hand), so the step against the far bench melts if you dawdle and the perch is a pillar pulled up under your own feet and a stomp from its top before it sinks. **The Marble Run** (x309–350): a marble (`dist/clay-marble.js`, pure numbers on the same heightfield: it rolls down whatever slope is under it, is carried up when the ground under it is raised, brakes to a stop in a hollow, and bounces off the benches) rests in a hollow at the near end with its socket at the far end past a ridge too tall to roll over; nothing touches the marble but the ground, so it is herded by raising the clay behind it, leaning a mound over, or stomping just ahead of it so it rolls into the crater, and seated in the socket it latches the station's channel and a channel-gated `lift` on the bench runs up to the flower and back for as long as it sits there. **Fix the Structure** (x350–380) is the one bench that is not a mass to be worked from the start: the dock's far corner has gone to rot — a `crumble` deck marked `rot`, drawn not as a ledge but as a bite eaten out of the bench (`dist/rot-shape.js`: the gap the puzzle plays in plus a ragged bulge into the dock's last column, itself a stone deck carved around the bite) and filled with one slab of dead clay, pitted like pumice with craters large and small and grains of it clinging along its top and open side; whole until it goes, and falling as fragments built with it — and it gives the moment anyone stands on it (`delay:.12`, and a stand on it earns no coyote time, so it is never a take-off for the pit beyond, which a running jump from the mended corner alone crosses); a stomp brings it down at once and bounces the stomper, and down it stays, saved in `broken`, until R. What it leaves is drawn as a closed white outline — the mould ribbon carried down the open side, along the floor and up the bitten wall, teeth and all, so the line is the whole piece that is missing. The teaching hand follows the plug's phases: nothing while the rot stands, an open hand shoving the block once the gap is open (and gone while the player is shoving it themselves), the usual press once the plug is seated. The purple block on the dock is the game's first pushed object (`dist/clay-push.js`, pure numbers on a `stone` platform marked `push`): a grounded walk into its face carries it ahead at a walk's third (`PUSH.speed`), the passes after set the walker flush behind it, a wall stops it, and it wears a squared-off lump of its own (`fix.blockClump`) — its own never-worked heightfield, low enough to hop onto so it can be got behind from either side. The walker leans into it: `player.pushing` is the lean's direction each tick and `player.pushed` how fast the block went, and every character plays the supplied **Push Forward and Stop** take (`dist/assets/player-idle.json`, added beside the idle by `scripts/prepare-push.mjs` — the same rig under Mixamo's joint names, so its tracks are renamed onto the character's bones and its rest pose checked bone for bone; the four retargeted rigs carry it through `prepare-character.mjs`): the shove loops for as long as a block is pushed or leant on, hurried while the block actually moves, and the take's own standing-down plays once when the block is let go standing still. A rig with no push clip walks against a block the way it walks anywhere. Pushed seven tenths over the open gap the block tips in and seats over three tenths of a second, and the station's mass, dormant till then (`active:false`, no body, no hand — `fixWorkable` in `dist/clay-rules.js` gates the hold, E, the tap and the stomp), stands up in its place as that very lump and settles, over seven tenths of a second and taking no hand meanwhile, into `clump` — the bulge a lump squeezed into a hole makes — both shapes fitted by `mouldFit` to hold exactly the gap's volume so the flat mould (`[[0,0],[1,0]]`) is the one shape it can fill with nothing over. From there it is Cast the Mould: the same `formMatch`, and at the cast the surface snaps to the mould, the station is sealed (`sealFix`), its `channel` latches, and `station.open` — computed for every cast and read by nothing until now — drives a white flash and then a patch of the bench's own clay — the whole bite, bulge and all, body and cap — in the lattice's place. Pushed onto the rot while it stands, the block reacts instead: a hiss (`noise()` in `dist/audio.js`, the one synthesized sound with no pitch), violet to the rot's black, then to pieces in its own dark chips, and back on the dock eight tenths of a second later once nobody stands there. `station.amount` counts the phases — nothing, a fifth with the gap open, then the cast's progress from the seated lump — and R stands the rot back up, puts the block back and dismisses the mass. `tests/clay-lab-puzzles.mjs` drives all of it from the dock: the stand, the stomp, the push, the reaction, the seat, the cast, the jump, the save, and R. Every piece of violet clay in the game, chapter or lab, is heard being worked: whatever moves it — a drag, E, a tap, boots sinking in, a stomp — raises a `knead` event from the simulation no oftener than every half second while the work goes on (`KNEAD_GAP` in `dist/shaping.js`), and the sound answers each with one of three supplied kneading takes (`dist/assets/clay-knead-1..3.wav`, folded to mono) chosen at random and never the same one twice running; clay settling, slumping or relaxing on its own is silent. `tests/clay-knead.mjs` drives every kind of clay and every way in, and `tests/audio.mjs` the takes. The block is a row of springs across its top (`dist/clay-give.js`, tested on its own in `tests/clay-give.mjs`) that the collider and the mesh both read. It behaves like heavy clay rather than jelly: standing sinks you about a player-height and a third below the shoulders it pushes up and settles without ringing, and whatever you press in — a stand, the trough a walk drags behind you, a stomp crater — it gives back only about a quarter of and keeps the rest, with no wake, no swing and no throw. The flower perch above it belongs to a running jump off the start bench. The lump and the slabs take hands as well as boots: stomp them, drag them (the lump down, a slab up or down), tap them, or hold E, which packs the lump or grows the slab you stand on or face; a lump that has just thrown you ignores the hand that armed it until that hand lets go. Every one carries a `rule`. One of them has left the bench: the formable mass is the canyon's Sandwright's Pocket, with its slump switched off and a stiffer shaped share, and `tests/clay-lab.mjs` asserts that no other rule reaches a chapter; which rules take a hand is listed in `dist/clay-rules.js`, and `tests/clay-lab-hands.mjs` drives the real pointer and key handlers against them.
 
 A pass over loading, download weight, input and audio options. **The loading screen now stays up until the chapter is actually built.** It used to be dismissed the moment the downloads finished, leaving the player looking at an empty sky with a live HUD on it for several seconds while `world.build` welded the chapter on the main thread; the overlay now covers that too, and drops back to its indeterminate sweep — a compositor-driven transform, so the bar keeps moving even while the main thread is blocked. A response with no `Content-Length` no longer parks the bar at zero per cent.
 
